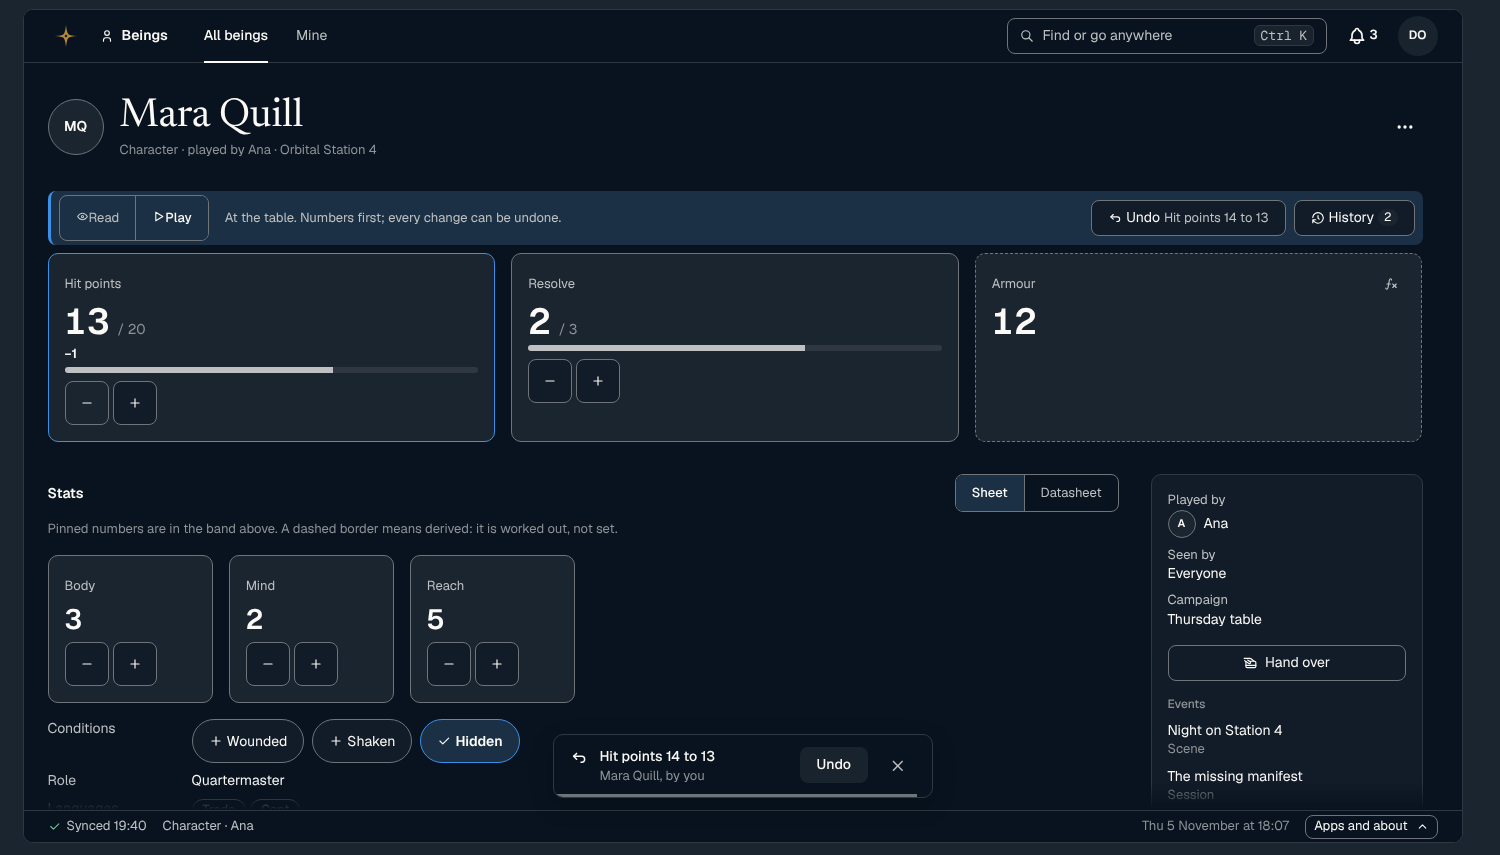
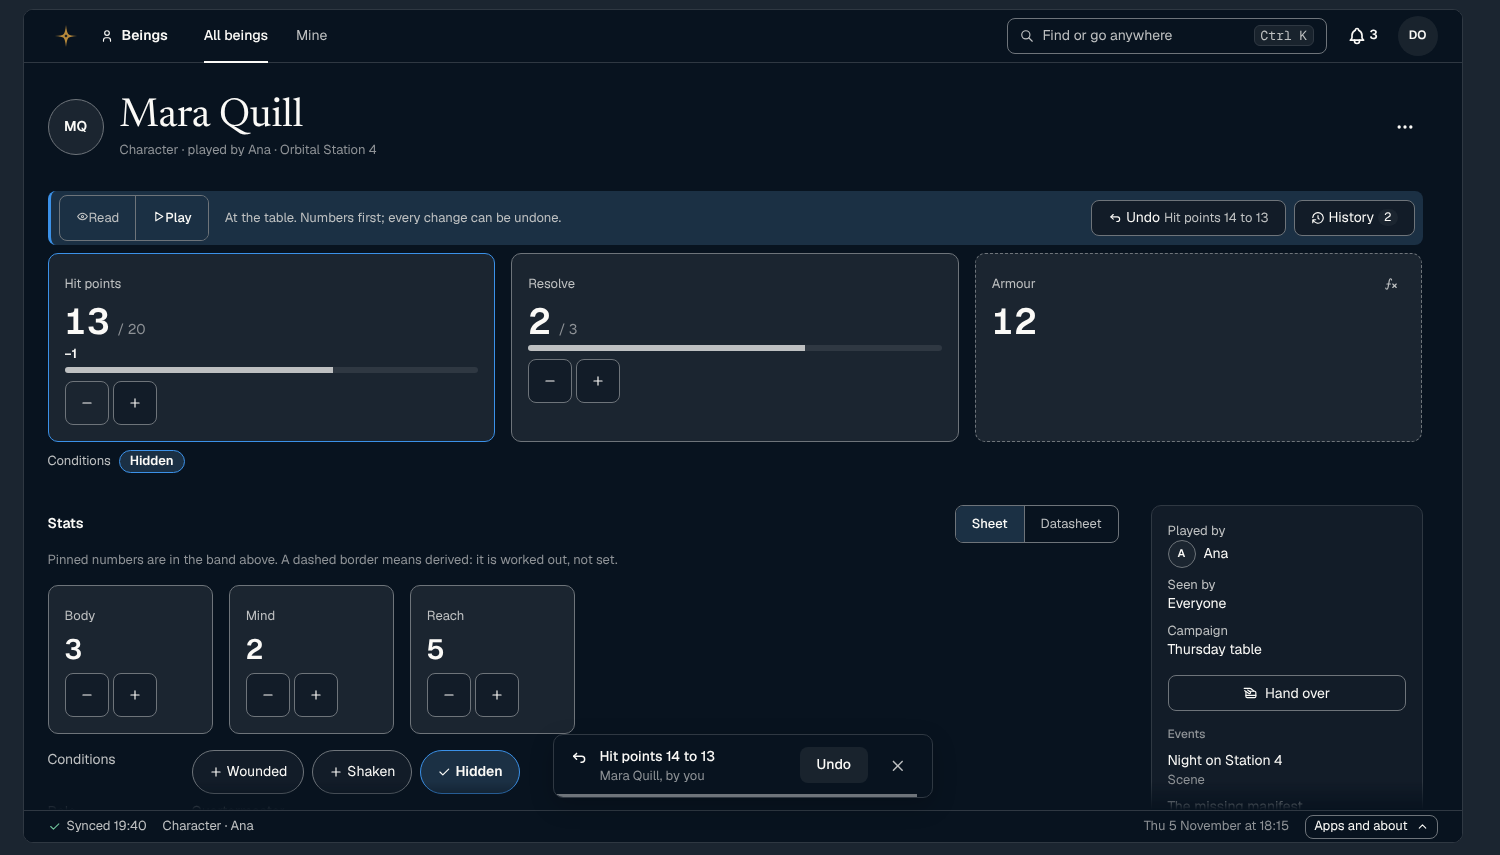
docs(design): show active conditions in the Beings band and space the list header
Claude-Session: https://claude.ai/code/session_019tF9Ngh3Gpv3ddhQs8PBZi

diff --git a/docs/design/web/beings/prototype/bn-pages.js b/docs/design/web/beings/prototype/bn-pages.js
@@ -49,7 +49,7 @@ function bnBar(b) {
   const hint = play ? (run ? 'At the table. Numbers first; every change can be undone.' : 'At the table. Only its player and the GM change it.') : 'Reading. Edit a section where it is.';
   return `<div class="bn-bar2"><div class="bn-modewrap">${bnMode()}<span class="t-meta bn-modehint" id="bn-mh">${hint}</span></div>${play && run ? `<span class="bn-act"><button type="button" class="btn" data-bn="undo" ${last ? '' : 'aria-disabled="true"'}>${ic('undo')}<span>Undo</span>${last ? `<span class="t-meta bn-lastn">${esc(last.n)}</span>` : ''}</button><button type="button" class="btn" data-bn="history" aria-haspopup="menu" aria-expanded="false">${ic('history')}<span>History</span>${l.length ? `<span class="bn-cnt">${l.length}</span>` : ''}</button></span>` : ''}</div>`;
 }
-function bnBand(b) { const pins = STATDEF.filter((d) => d.pin); return `<div class="bn-sent" aria-hidden="true"></div><div class="bn-band ${BN.mode === 'play' ? 'play' : ''}" id="bn-band" role="group" aria-label="Mode and pinned numbers">${bnBar(b)}<div class="bn-pins">${pins.map((d) => bnTile(b, d, true)).join('')}</div></div>`; }
+function bnBand(b) { const pins = STATDEF.filter((d) => d.pin); return `<div class="bn-sent" aria-hidden="true"></div><div class="bn-band ${BN.mode === 'play' ? 'play' : ''}" id="bn-band" role="group" aria-label="Mode and pinned numbers">${bnBar(b)}<div class="bn-pins">${pins.map((d) => bnTile(b, d, true)).join('')}</div>${b.stats.cond.v.length ? `<p class="bn-bandc"><span class="t-meta">Conditions</span>${b.stats.cond.v.map((t) => `<span class="bn-tag on">${esc(t)}</span>`).join(' ')}</p>` : ''}</div>`; }
 function bnAbout(b) {
   const ed = canEdit(b) && BN.mode === 'read';
   if (BN.mode === 'play') return `<details class="bn-sec bn-s-about"><summary class="t-sec">About</summary><p>${b.about ? esc(b.about) : '<span class="muted">Nothing written yet.</span>'}</p></details>`;

diff --git a/docs/design/web/beings/prototype/bn.css b/docs/design/web/beings/prototype/bn.css
@@ -82,3 +82,5 @@ details.bn-sec > summary::before { content: ''; width: 8px; height: 8px; border-
 .bn-modewrap .seg button { min-height: 44px; }
 .bn-bar2 .btn { background: var(--surface-default); } .bn-lastn { color: var(--text-secondary); }
 .bn-modehint { color: var(--text-secondary); }
+.bn-bandc { display: flex; flex-wrap: wrap; align-items: center; gap: var(--s-2); margin: 0; } .bn-bandc .t-meta { color: var(--text-secondary); } .bn-tag.on { background: var(--surface-selected); border-color: var(--action); font-weight: 600; }
+.bn .head-row { margin-bottom: var(--s-4); }

diff --git a/docs/design/web/beings/README.md b/docs/design/web/beings/README.md
@@ -2,7 +2,7 @@
 
 A fresh design of Lorenzo Beings, from the jobs people do there. The system it is built on is in [the web design](../README.md): the shell, the templates, the states and the decisions D1 to D29. The account hub, Writing, Calendars with Sessions and Maps are decided. This page holds the brief, the questions and the decision log for this app.
 
-Status: the prototype is built and ready for review (decisions BN1 to BN9 are logged here).
+Status: the prototype is built and ready for review (decisions BN1 to BN10 are logged here).
 
 ## What the app is for
 
@@ -165,6 +165,10 @@ Side by side has its own Read and Play switch. In Play every column has the step
 
 Each step carries who made it and when: "Hit points 16 to 14, by Ana, 17:12". The person's own steps read "by you". The toast says "by you" too.
 
+### BN10. An active condition shows in the band
+
+A condition that is on (for example "Wounded") is shown under the pinned numbers, in Read and Play, so a table sees it without scrolling. Nothing shows when none is on.
+
 ## The directions (drawn; A with C's band chosen)
 
 In `directions/`: the list in its three views (BN1, BN4) and three layouts for the being page, each in Read, Play and Read with About being edited (BN2, BN3), on the shell. The data is made up. The list views and the modes are the same in all three directions; what differs is how the page is arranged. Run it:
@@ -213,7 +217,7 @@ The data is made up and kept in the page. Stats come from a fixed set; the libra
 
 ### What was checked
 
-78 scripted checks pass (Playwright, 1440 and 430 wide): the three list views and their memory, search, filters and the empty state; reading, every in-place edit, the derived rule, Play with steps, the adjuster, a refused value, the limit, thirty steps, the datasheet, the band shrinking while it stays in view; Hand over, Delete and New with their Undo; the order of Read and Play, the mode switch staying in view, conditions, the amount shown on a change, who made a step, steppers in the side-by-side Play; a player's page, the absent notes and the remembered mode; no horizontal scroll and 44 px targets on a phone. axe-core finds no violations on 18 states at 1440 and 430, light and dark (72 runs; the landmark-region rule is off for overlays). There are no console errors.
+80 scripted checks pass (Playwright, 1440 and 430 wide): the three list views and their memory, search, filters and the empty state; reading, every in-place edit, the derived rule, Play with steps, the adjuster, a refused value, the limit, thirty steps, the datasheet, the band shrinking while it stays in view; Hand over, Delete and New with their Undo; the order of Read and Play, the mode switch staying in view, conditions, the amount shown on a change, who made a step, steppers in the side-by-side Play; a player's page, the absent notes and the remembered mode; no horizontal scroll and 44 px targets on a phone. axe-core finds no violations on 18 states at 1440 and 430, light and dark (72 runs; the landmark-region rule is off for overlays). There are no console errors.
 
 ### What was not checked
 
@@ -223,6 +227,7 @@ A screen reader, a real phone or touch device, colour-blindness simulation, Safa
 
 - The first build used viewport media queries, which misfire in the phone frame; every width rule is now a container query on the shell (D20). A check at a real 430-wide window passed even while the frame was broken, so the checks now also run in the frame.
 - The rail on a phone sat above the page and pushed About out of view; it now comes after the page.
+- In the first review the New being button touched the view switch on the list; the header now has its own space above the toolbar, and a check measures it.
 - A label that did not begin with its visible text failed axe; the value button's name now starts with the number.
 
 ### Screens
@@ -232,4 +237,3 @@ In `screens/` (21 images): the list in rows, cards, side by side and empty; the 
 ## Open questions
 
 - Is the tinted bar and the numbers-first order enough to tell Play from Read, or should Play also change the header?
-- Should a condition show on the pinned band when it is on, so a table sees "Wounded" without scrolling?

diff --git a/docs/design/web/README.md b/docs/design/web/README.md
@@ -2,7 +2,7 @@
 
 The design guidelines for Lorenzo's web interfaces and a fresh design of each web app, worked out with the maintainer on clickable prototypes. This page holds the brief and the decision log. Nothing is decided until it is in the log.
 
-Status: Phase 2 (the shell): the prototype is built and ready for review. Phase 3 (the apps) has started: [account-hub](account-hub/README.md), decided (AH1 to AH9); [writing](writing/README.md), decided (WR1 to WR10); [calendars and sessions](calendars-sessions/README.md), decided (CS1 to CS7); [maps](maps/README.md), decided (MP1 to MP7); [beings](beings/README.md), the prototype is built and ready for review (decisions BN1 to BN9 are logged there).
+Status: Phase 2 (the shell): the prototype is built and ready for review. Phase 3 (the apps) has started: [account-hub](account-hub/README.md), decided (AH1 to AH9); [writing](writing/README.md), decided (WR1 to WR10); [calendars and sessions](calendars-sessions/README.md), decided (CS1 to CS7); [maps](maps/README.md), decided (MP1 to MP7); [beings](beings/README.md), the prototype is built and ready for review (decisions BN1 to BN10 are logged there).
 
 ## Layout of this directory
 
